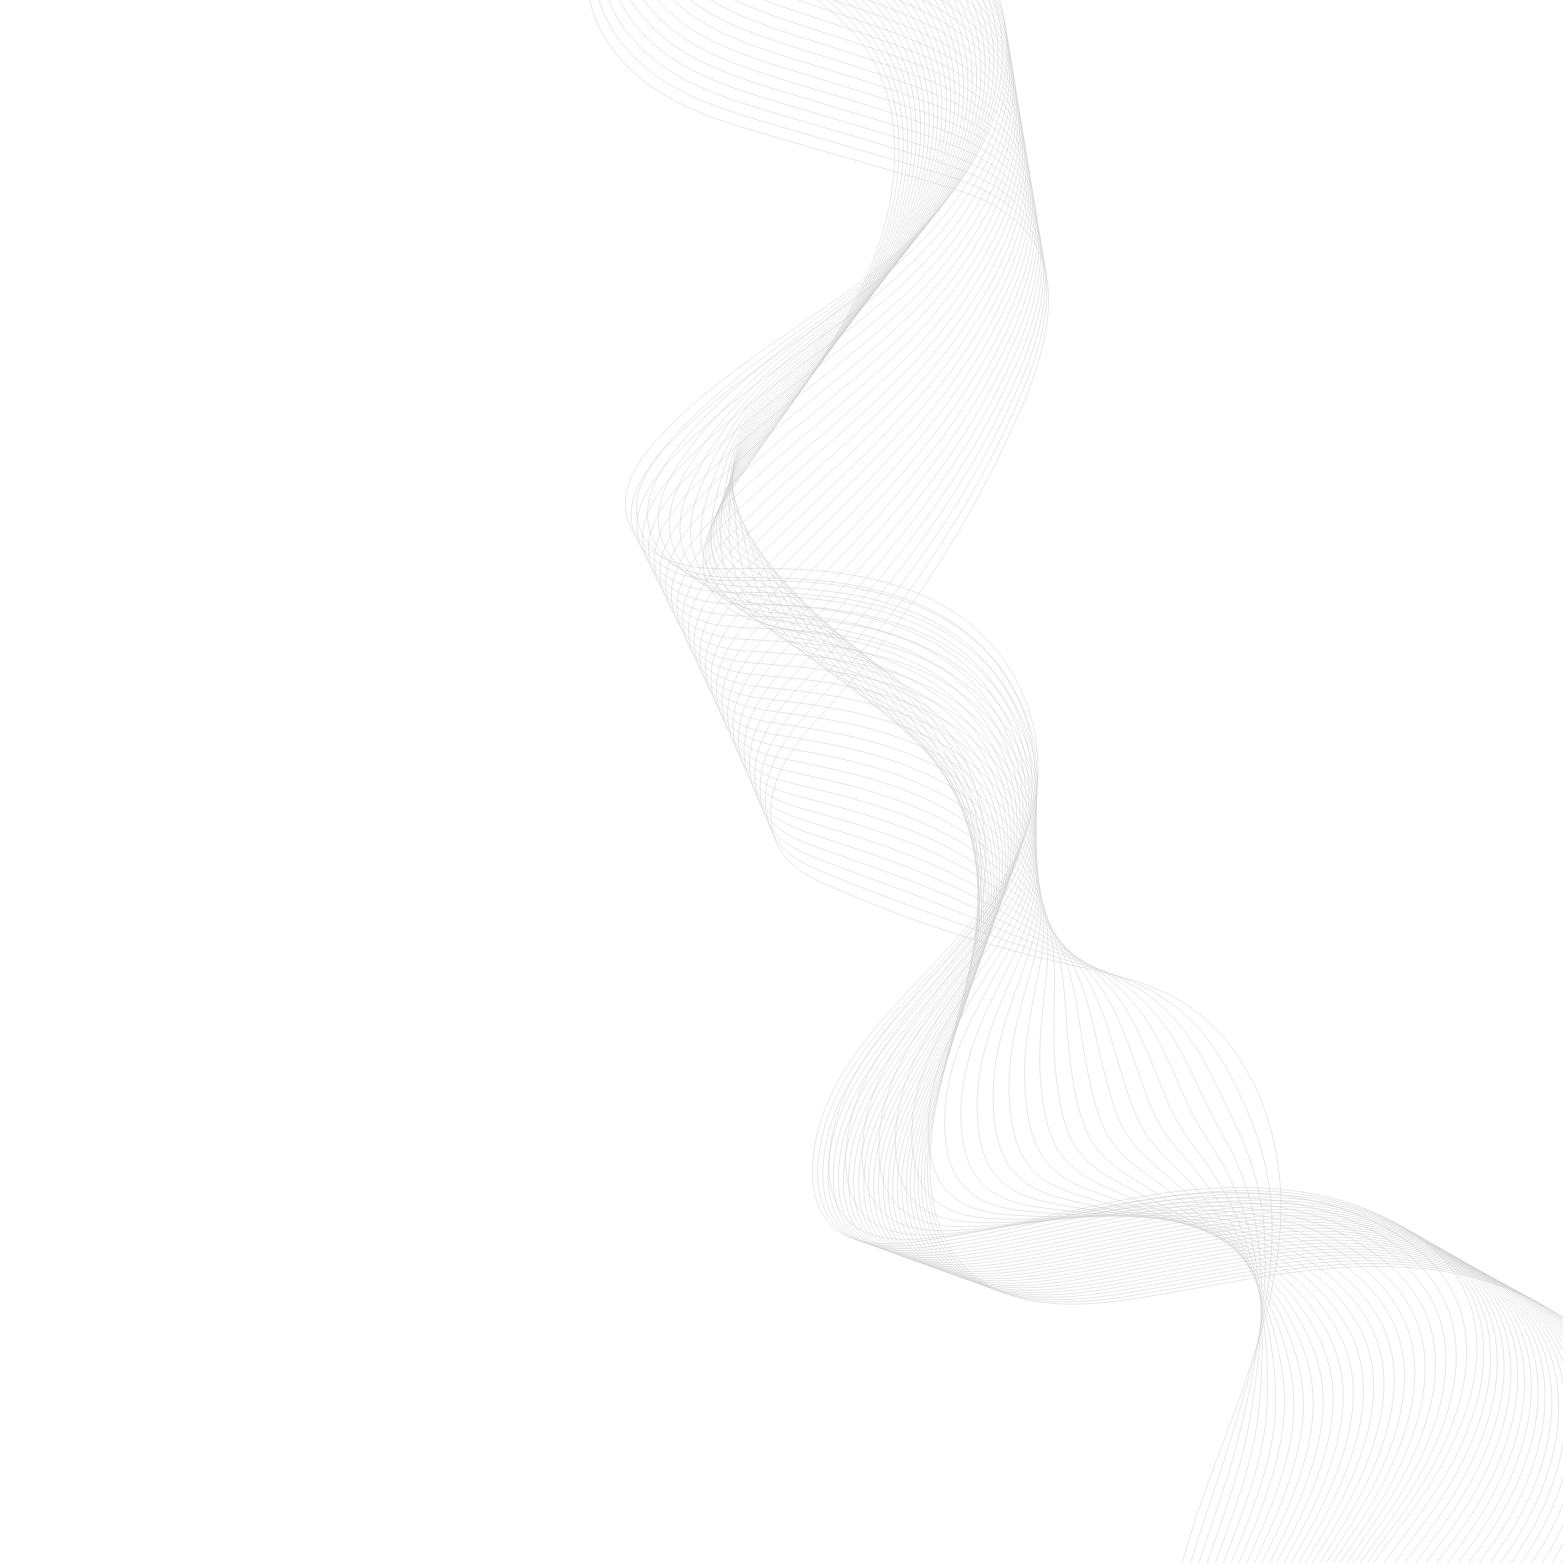
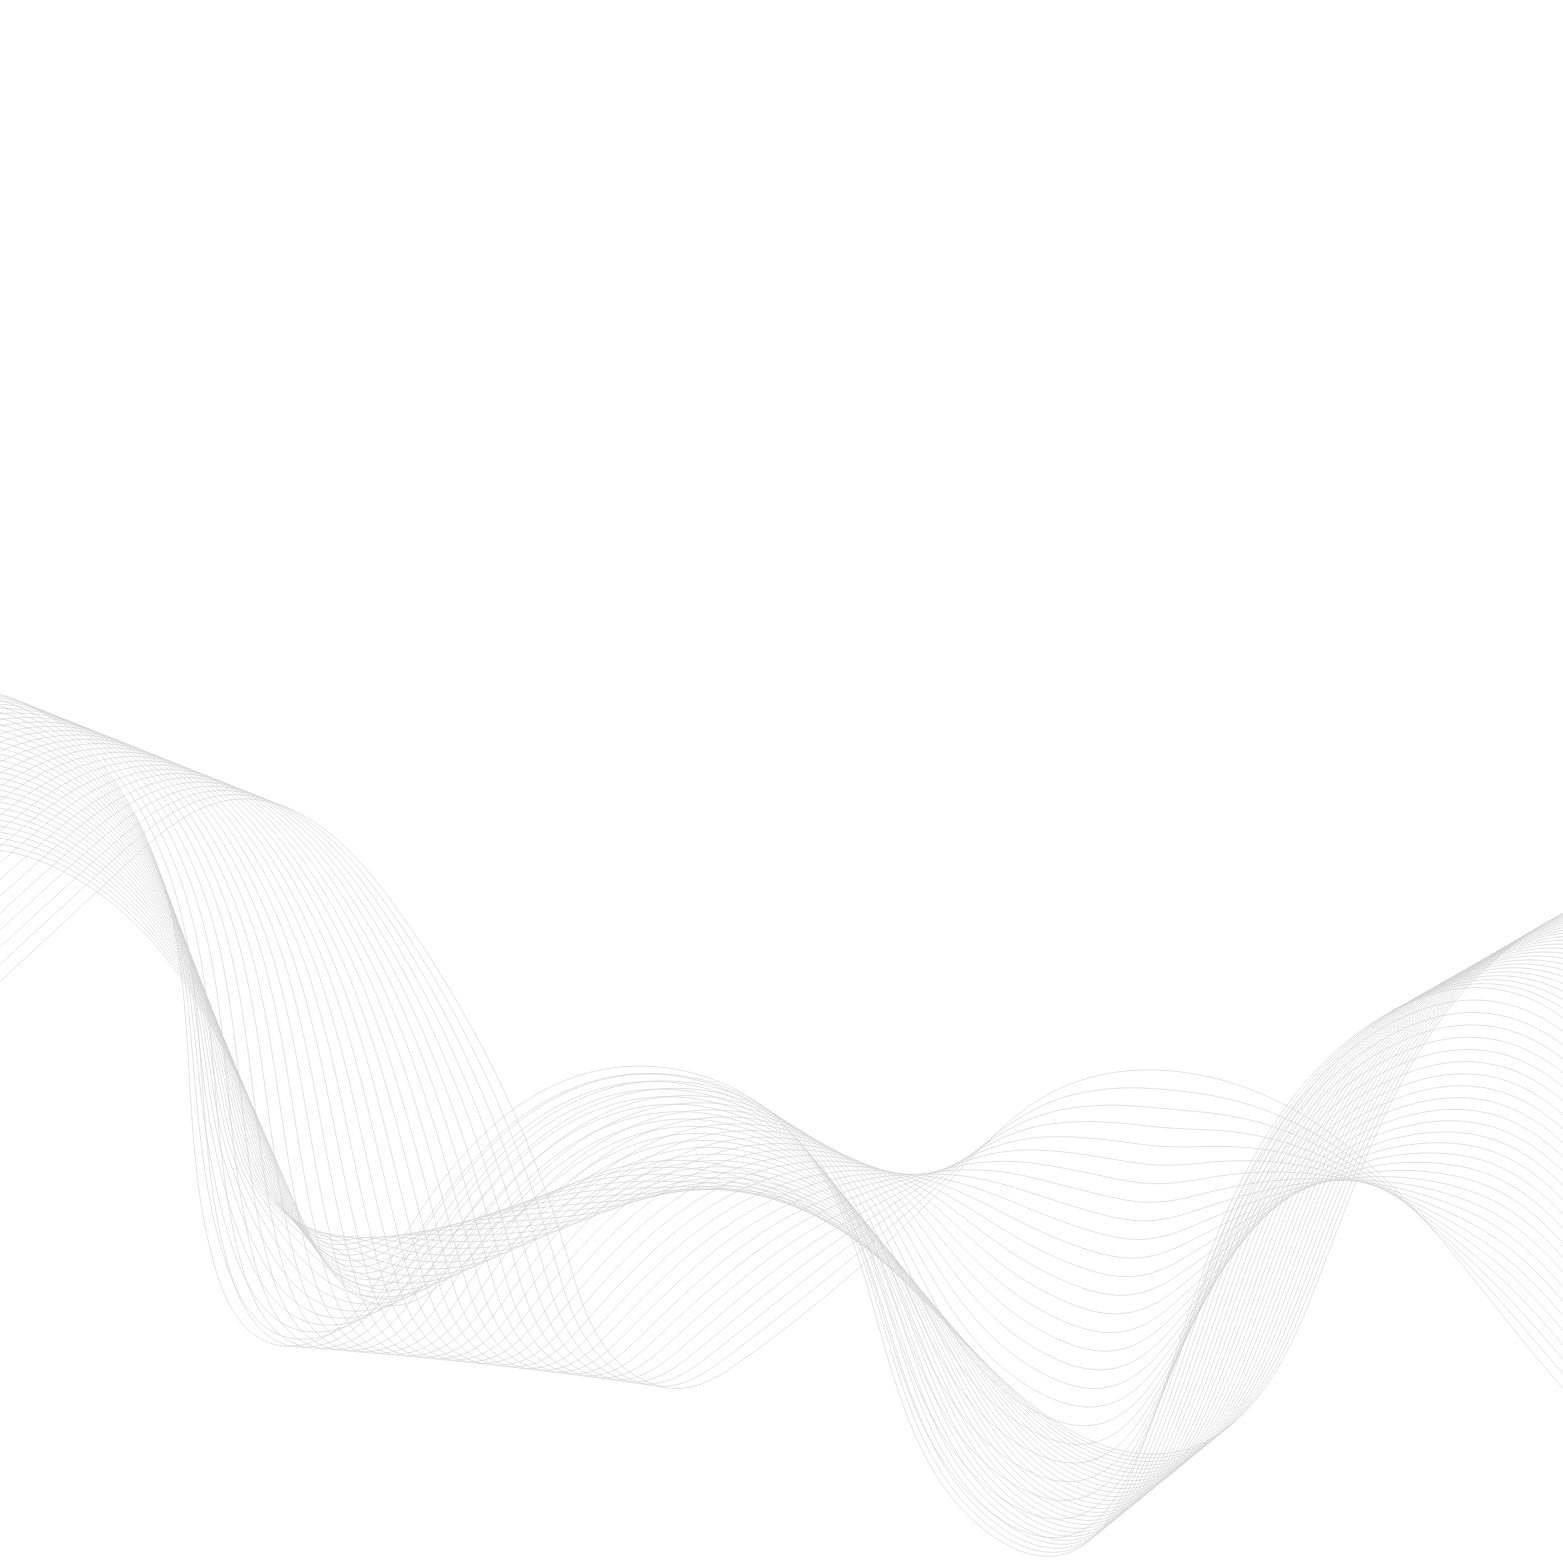
commit 2

diff --git a/src/components/About/About.css b/src/components/About/About.css
@@ -4,12 +4,11 @@
     display: flex;
     align-items: center;
     /*background-color: rgba(7, 29, 3, 0.98);*/
-    background-color: rgba(31, 33, 31, 0.96);
+    background-color: rgba(25, 26, 25, 0.96);
     color: white;
-    background-image: url('../../assets/background.png');
+    background-image: url('../../assets/background2.png');
     background-repeat: no-repeat;
-    /*background-position: */
-    background-size: contain;
+    background-position: bottom right;
 
 }
 

diff --git a/src/components/Contsct/Contsct.css b/src/components/Contsct/Contsct.css
@@ -2,7 +2,7 @@
     display: flex;
     align-items: center;
     justify-content: center;
-    background-color: rgba(31, 33, 31, 0.96);
+    background-color: rgba(25, 26, 25, 0.96);
     flex-direction: column;
     height: 70vh;
 }

diff --git a/src/components/Skills/Skills.css b/src/components/Skills/Skills.css
@@ -2,7 +2,7 @@
     display: flex;
     align-items: center;
     justify-content: center;
-    background-color: rgba(31, 33, 31, 0.96);
+    background-color: rgba(25, 26, 25, 0.96);
     flex-direction: column;
 
 }
